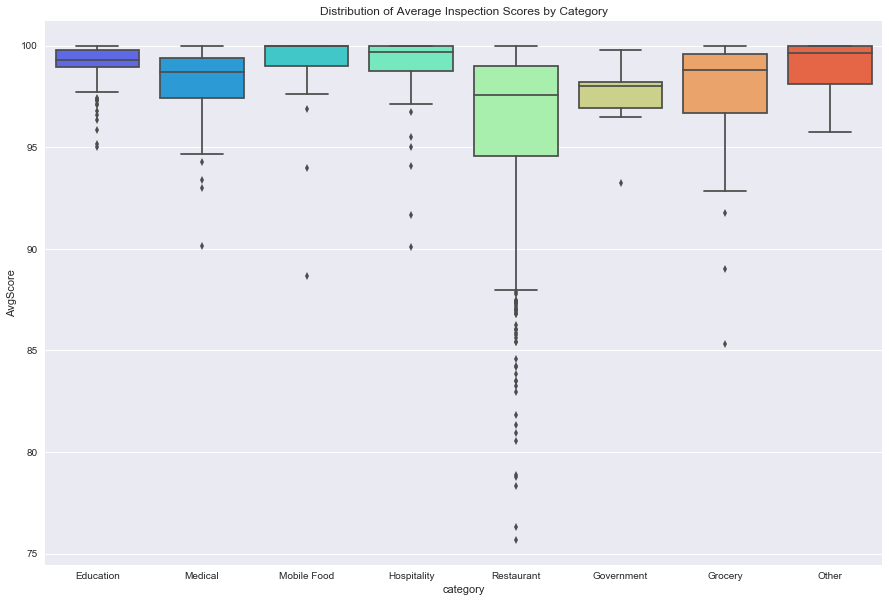
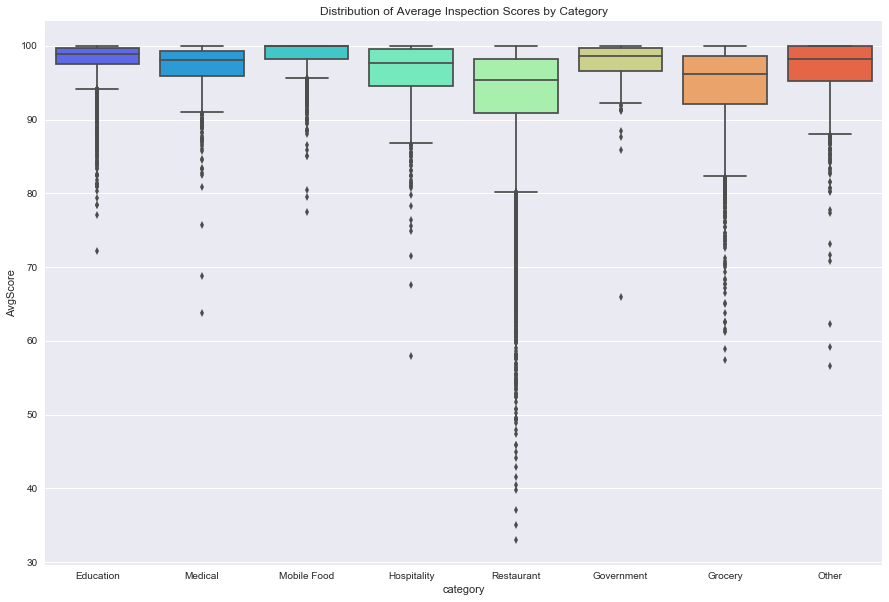
added results for full OHI dataset

diff --git a/ohi-analysis.html b/ohi-analysis.html
@@ -19,7 +19,7 @@
 				<div class="row">
 					<div class="col-md-6 col-sm-12">
 						<h1>Open Health Inspection</h1>
-						<a href="https://github.com/bcbarsness/open-health-inspection-analysis/blob/master/OpenHealthAnalysis.ipynb">Github Source</a><br>
+						<strong>Jupyter Notebook: </strong><a href="https://github.com/bcbarsness/open-health-inspection-analysis/blob/master/OpenHealthAnalysis.ipynb">Github Source</a><br>
 
 					</div>
 					<div class="col-md-6 col-sm-12"><img alt="64x64" class="media-object img-circle pull-right" data-src="holder.js/64x64" src="images/ohi.png" style="width: 100px; height: 100px; margin-top: 20px;"> </div>
@@ -43,7 +43,6 @@
 						<img class="center-block img-responsive" src="images/scores_dist.png" style="margin-bottom: 50px;"></img>
 						<img class="center-block img-responsive" src="images/scores_cat_scatter.png" style="margin-bottom: 50px;"></img>
 						<img class="center-block img-responsive" src="images/scores_type_scatter.png" style="margin-bottom: 50px;"></img>
-						<img class="center-block img-responsive" src="images/scores_swarm.png" style="margin-bottom: 50px;"></img>
 						<img class="center-block img-responsive" src="images/scores_box.png" style="margin-bottom: 50px;"></img>
 						<img class="center-block img-responsive" src="images/scores_variance_bar.png" style="margin-bottom: 50px;"></img>
 					</div>
